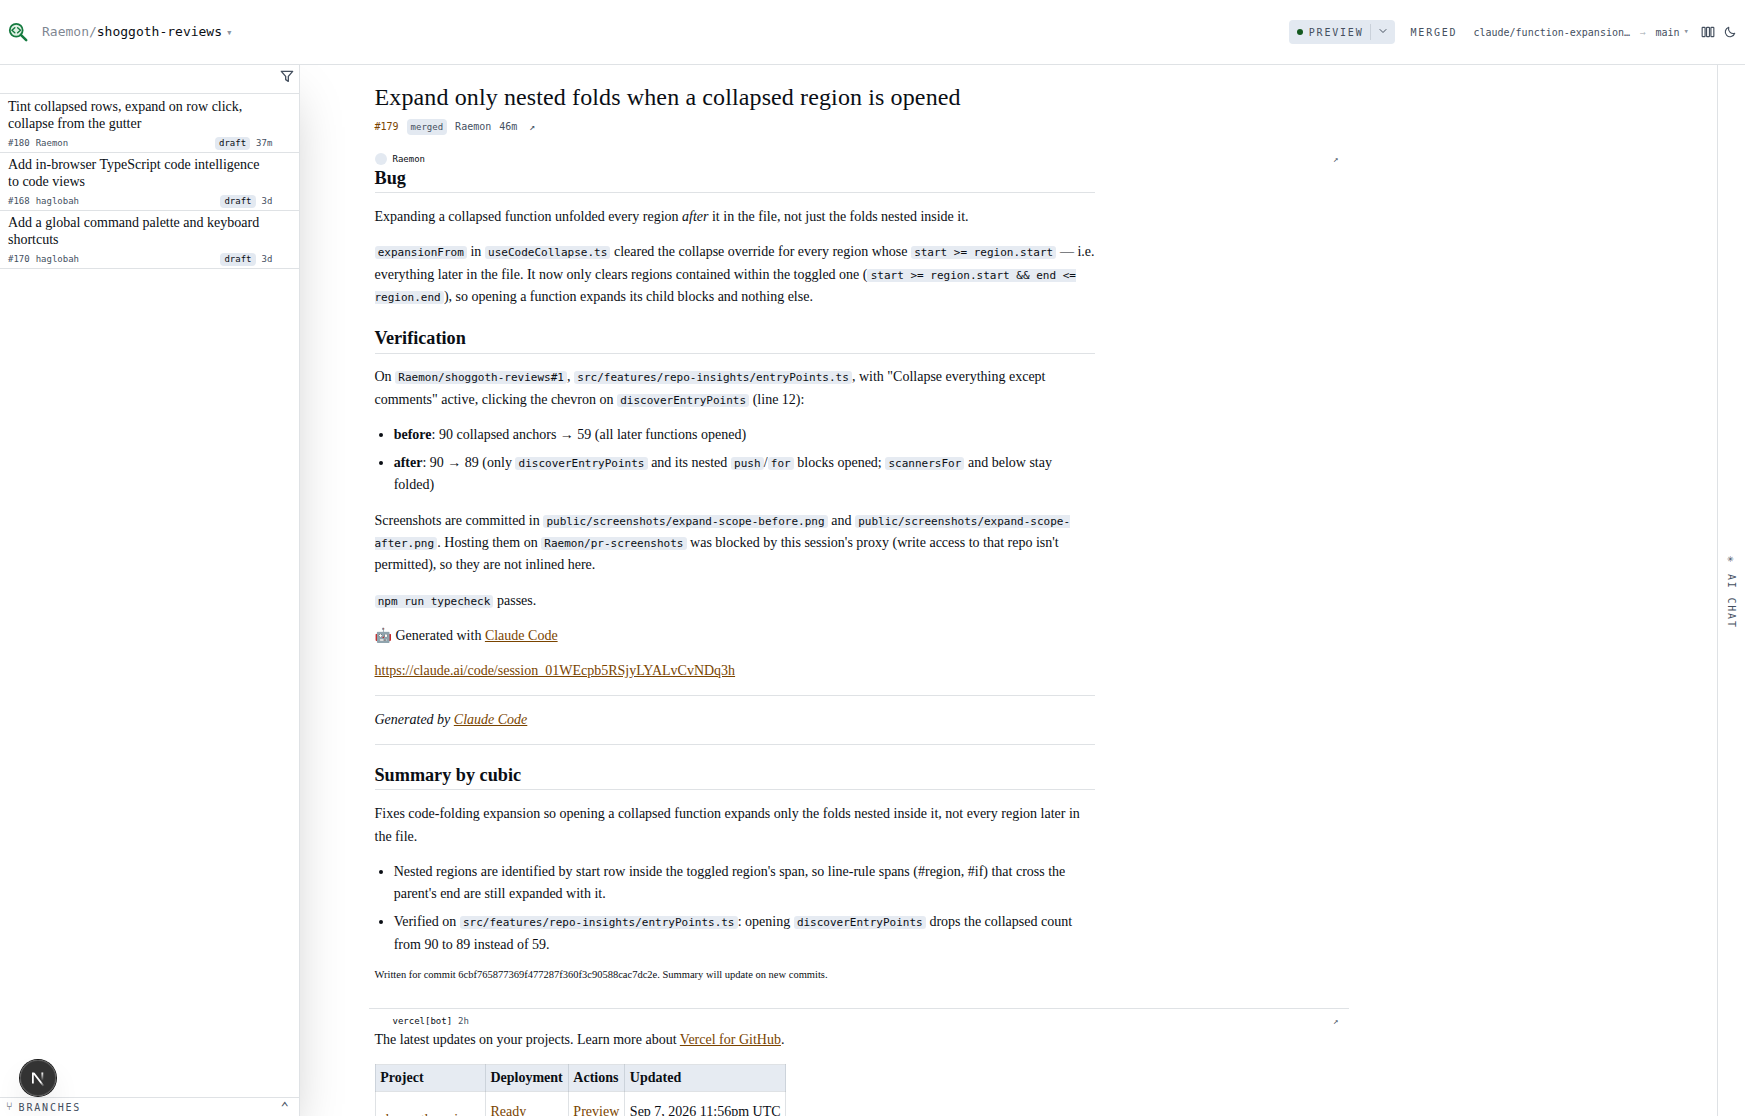
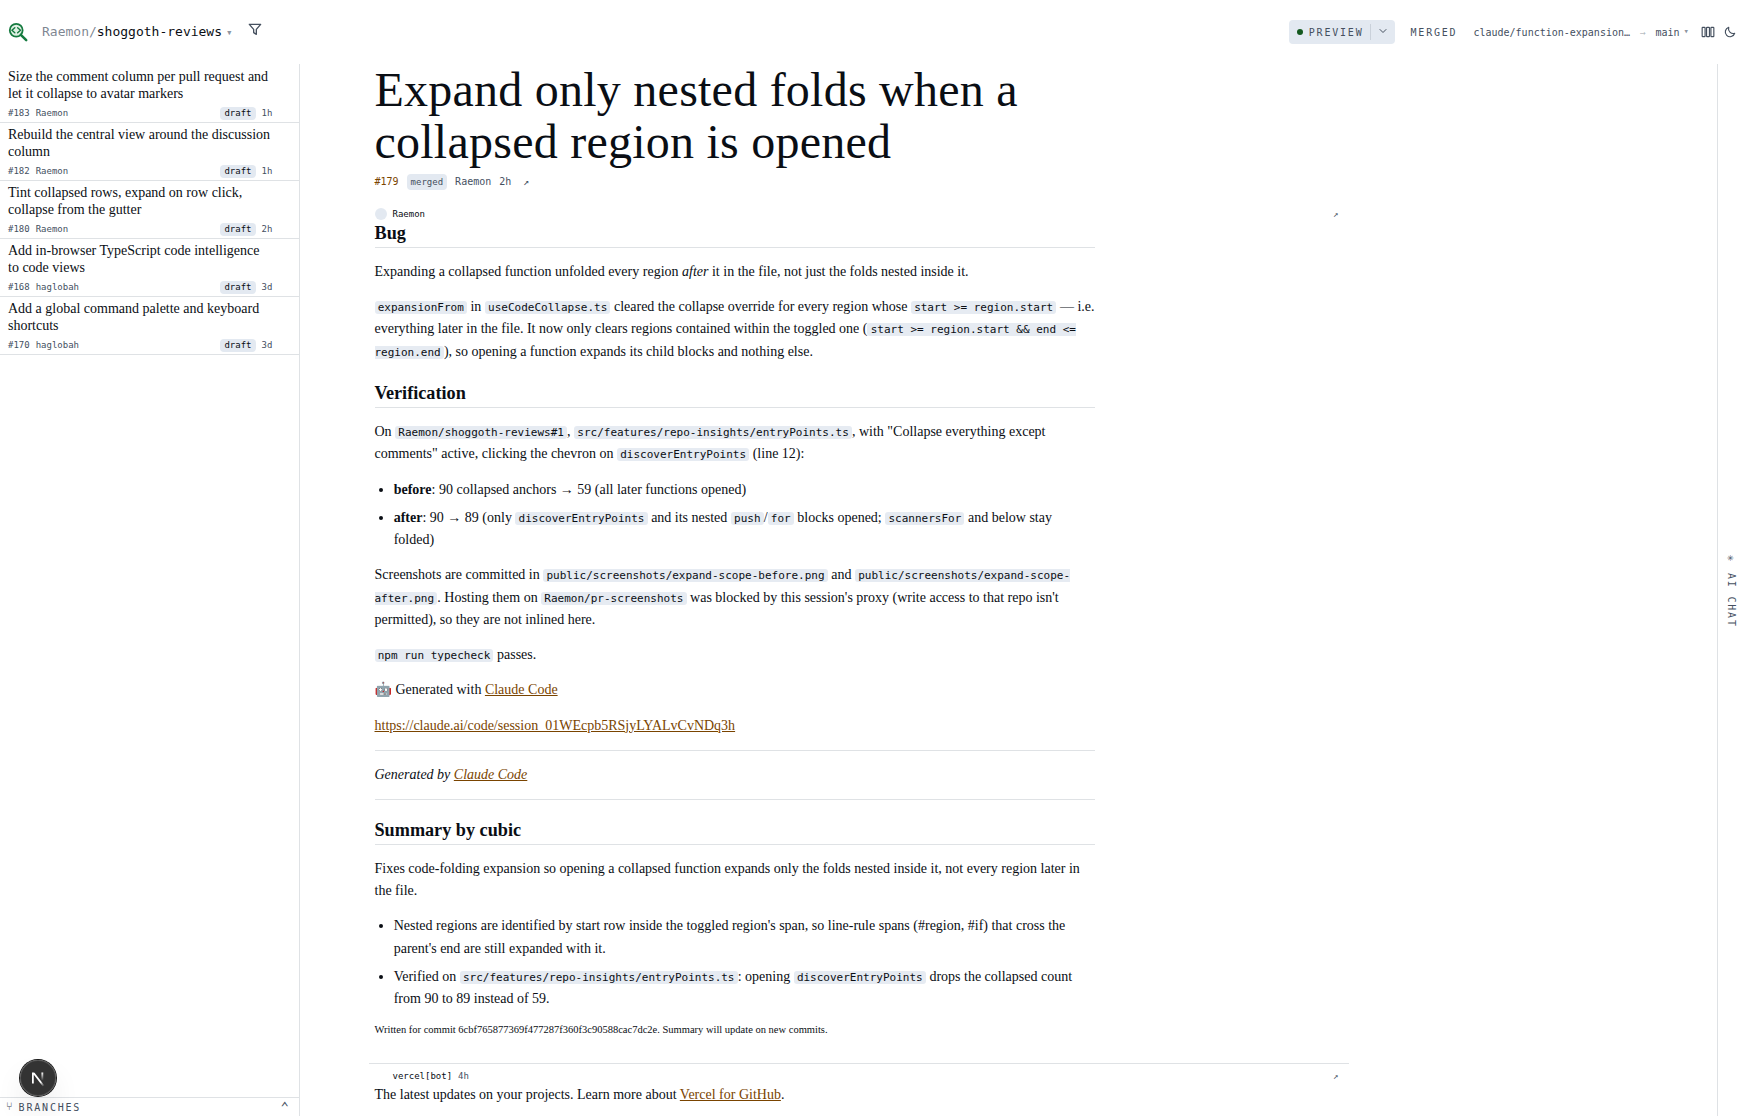
Let the title open the page, and lift the pull filter into the top bar
- Drop the top bar's rule in central mode: with the discussion header
  already gone, it was the only line left across the top of the page.
- Double the subject title to 48px and take the padding off above it, so
  the title starts the page rather than sitting under a gap.
- Drop the shadow on the floating panels; each already has a border.
- Move the pull filter menu next to the repo dropdown in the top bar, so
  the revealed pull list is nothing but the list.

Claude-Session: https://claude.ai/code/session_01K2rVBwtQ2cZrxikYzoaAXS

Changed region(s): [[0.2166, 0.0609, 0.6189, 1.0], [0.0, 0.0609, 0.1547, 0.3351], [0.9903, 0.5179, 1.0, 0.5789]]

diff --git a/src/features/codebases/CodebaseHeader.tsx b/src/features/codebases/CodebaseHeader.tsx
@@ -15,6 +15,7 @@ import { MergePullButton } from '@/features/pull-requests/MergePullButton';
 import { PreviewLink } from '@/features/pull-requests/PreviewLink';
 import { PullBranchRefs } from '@/features/pull-requests/PullBranchRefs';
 import { ALL_PULLS_ROWS, setPullAuthor, useOfferedPullAuthors, useShownPullAuthor, type PullAuthor } from '@/features/pull-requests/pullFilterStore';
+import { PullFilterMenu } from '@/features/pull-requests/PullFilterMenu';
 import { PullRequestMenu } from '@/features/pull-requests/PullRequestMenu';
 import { ViewModeToggle } from '@/features/pull-requests/ViewModeToggle';
 import { useViewMode } from '@/features/pull-requests/viewModeStore';
@@ -31,17 +32,19 @@ const REPO_MENU_COMMAND: CommandSpec = { id: 'repo-menu', label: 'repositories m
 
 export function CodebaseHeader() {
   const pathname = usePathname();
+  const central = useViewMode() === 'central';
   const reading = repoBeingRead(pathname);
   const pullNumber = pullBeingRead(pathname);
   const branch = branchBeingRead(pathname);
   const readingPullList = reading !== null && pathname === repoRoute(reading.owner, reading.name);
   const readingChange = reading !== null && (pullNumber !== null || branch !== null);
   return (
-    <header className="relative z-40 flex items-center gap-2 border-b border-panel-edge bg-panel px-2 py-5">
+    <header className={`relative z-40 flex items-center gap-2 bg-panel px-2 py-5 ${central ? '' : 'border-b border-panel-edge'}`}>
       <Link href="/" aria-label="reposcope home" className="shrink-0">
         <ScopeMark size={20} title="reposcope home" />
       </Link>
       <CodebaseMenu reading={reading} />
+      {central && readingChange && <PullFilterMenu />}
       {reading && !readingPullList && <HeaderSubject repo={reading} pullNumber={pullNumber} branch={branch} />}
       <div className="ml-auto flex shrink-0 items-center gap-2">
         <GithubSignedOutNotice />

diff --git a/src/features/pull-requests/ResizableColumn.tsx b/src/features/pull-requests/ResizableColumn.tsx
@@ -226,7 +226,7 @@ function PaneColumn({ navId, title, icon, note, action, footer, frame, children 
   );
 }
 
-const FLOATING = 'absolute inset-y-0 z-40 flex w-[var(--col-w)] flex-col bg-panel shadow-2xl';
+const FLOATING = 'absolute inset-y-0 z-40 flex w-[var(--col-w)] flex-col bg-panel';
 
 const FLOATING_SIDE: Record<ColumnSide, string> = { left: 'left-0 border-r', right: 'right-0 border-l' };
 
@@ -242,8 +242,8 @@ function RevealColumn(props: ColumnProps) {
       {...props}
       side="left"
       inert={!shown}
-      className={`transition-transform duration-150 ${shown ? 'translate-x-0' : '-translate-x-[calc(100%+1rem)]'}`}
-      header={props.action && <div className="flex shrink-0 justify-end border-b border-panel-edge px-1 py-[2px]">{props.action}</div>}
+      className={`transition-transform duration-150 ${shown ? 'translate-x-0' : '-translate-x-full'}`}
+      header={null}
     />
   );
 }

diff --git a/src/features/pull-requests/PullDiscussion.tsx b/src/features/pull-requests/PullDiscussion.tsx
@@ -75,8 +75,8 @@ function SubjectHeading({ number, pull, url }: { number: number; pull: PullReque
   const { central } = useCentralLayout();
   if (!central) return null;
   return (
-    <header className={`px-1.5 pb-3 pt-4 ${READING_WIDTH}`}>
-      <h1 className="font-serif text-[24px] leading-8 tracking-[0.005em] text-ink">{pull.title}</h1>
+    <header className={`px-1.5 pb-3 ${READING_WIDTH}`}>
+      <h1 className="font-serif text-[48px] leading-[1.08] tracking-[0.005em] text-ink">{pull.title}</h1>
       <SubjectMeta number={number} pull={pull} url={url} />
     </header>
   );
